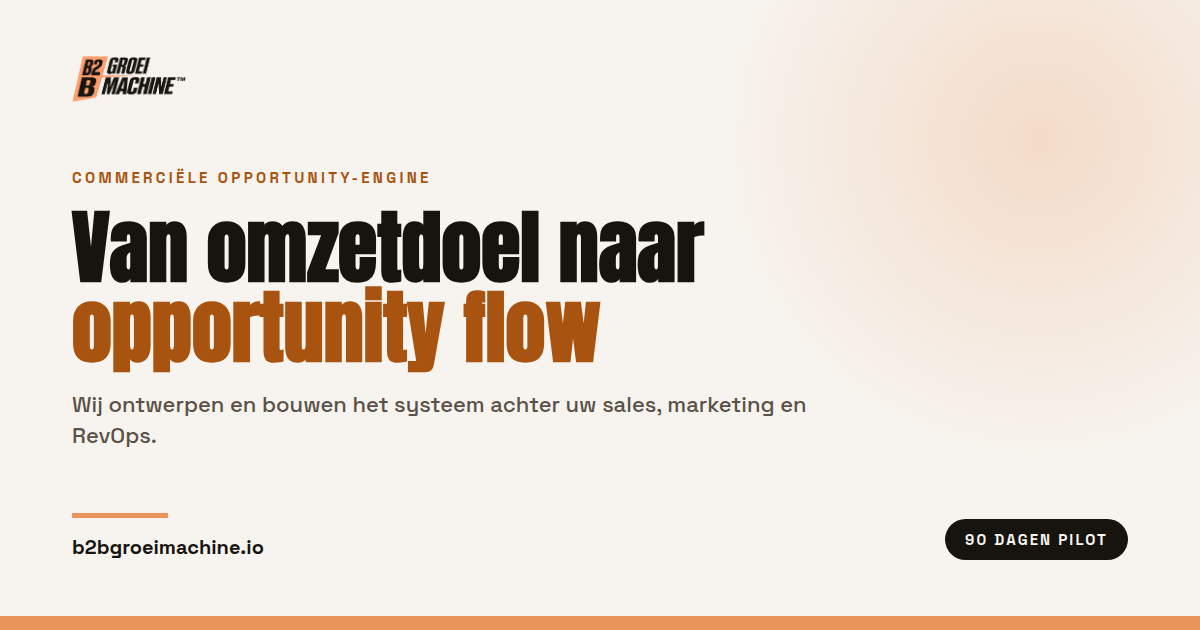
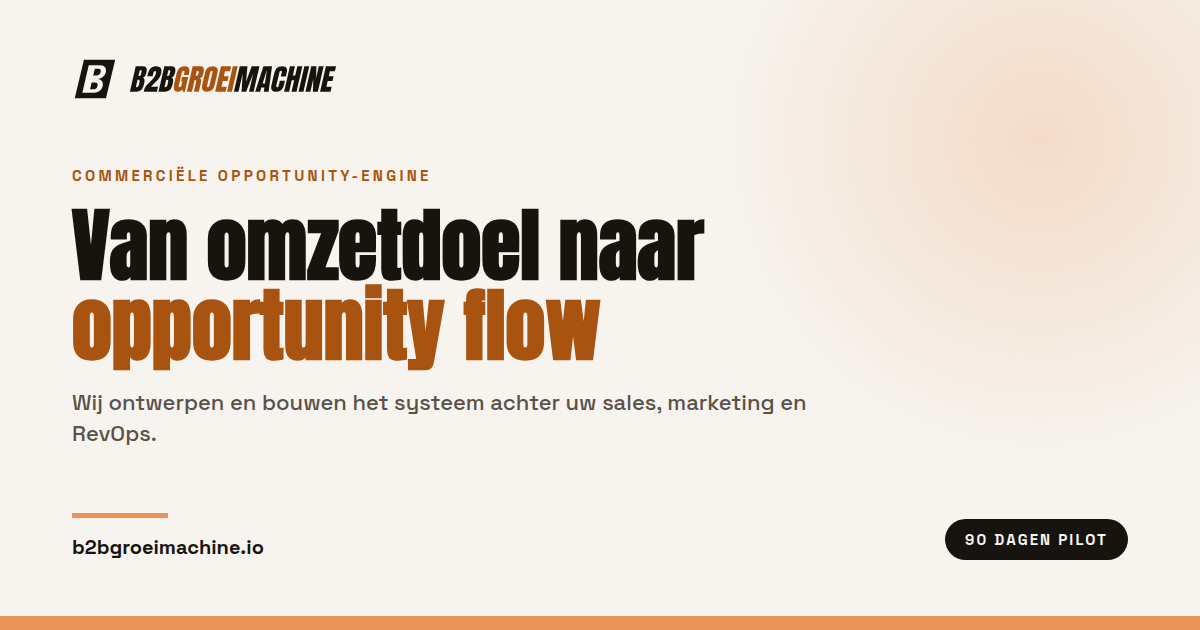
Nieuw merk: Het Blok
Het logo bestond alleen als PNG van 2000 bij 2000. Daardoor was er geen
favicon, kon het nergens scherp schalen, en moest de OG-generator het
beeldmerk in de browser bijsnijden en herkleuren om het bruikbaar te krijgen.

Nu is het vector, en hangt het nergens van een lettertype af:

- het beeldmerk is een schuin vlak met een B die met de hand is getekend,
  twee gelijke bogen op één stam. Optisch gecentreerd, niet wiskundig, omdat
  de bogen rechts zwaarder wegen dan de stam links.
- het woordmerk is Anton, met opentype.js omgezet naar vectorvormen en onder
  dezelfde dertien graden gezet als het vlak.

De favicon is een eigen tekening waarbij het vlak tot buiten het kader loopt.
Met dezelfde marge als het grote merk verdwijnt het blok op zestien pixels in
zijn eigen witruimte.

Wat er verandert:

- src/components/Logo.tsx met Merk en Logo, vormen inline zodat er geen extra
  verzoek nodig is en de kleuren meebewegen met de toon.
- de navigatie toont het logo in plaats van gezette tekst.
- favicon.svg, favicon.ico met 16/32/48 en een apple-touch-icon, met de links
  in index.html; die stonden er helemaal niet.
- public/merk/ met de losse bestanden voor extern gebruik: beeldmerk, op wit,
  één kleur, lockup horizontaal en gestapeld.
- build-og.mjs pakt nu de lockup-SVG. Het canvas-blok dat het oude PNG
  bijsneed en herkleurde kon daarmee weg, en de kaarten zijn opnieuw gemaakt.

Het oude src/assets/b2b_logo_nieuw.png wordt nergens meer gebruikt, maar staat
[…]

diff --git a/src/components/Logo.tsx b/src/components/Logo.tsx
@@ -1,0 +1,94 @@
+/**
+ * Het merk van B2B GroeiMachine.
+ *
+ * Beeldmerk "Het Blok": een schuin vlak met een B die met de hand is getekend,
+ * geen letter uit een lettertype. Het woordmerk is Anton, omgezet naar
+ * vectorvormen en onder dezelfde dertien graden gezet. Beide staan hier als
+ * pad, zodat het logo nergens van een geïnstalleerd lettertype afhangt en op
+ * elk formaat scherp blijft.
+ *
+ * De losse bestanden voor extern gebruik staan in `public/merk/`.
+ */
+
+/** Het schuine vlak. */
+const BLOK = "M26,8 L94,8 L74,92 L6,92 Z";
+/** Hetzelfde vlak, maar aflopend. Met marge valt het merk weg op faviconformaat. */
+const BLOK_VOL = "M22,-2 L104,-2 L78,102 L-4,102 Z";
+/** De B: twee gelijke bogen op één stam, counters als halve stadions. */
+const LETTER =
+  "M32,20 H58 A15,15 0 0 1 58,50 A15,15 0 0 1 58,80 H32 Z " +
+  "M47,27.5 H54 A7.5,7.5 0 0 1 54,42.5 H47 Z " +
+  "M47,57.5 H54 A7.5,7.5 0 0 1 54,72.5 H47 Z";
+/** Optisch gecentreerd, niet wiskundig: de bogen rechts wegen zwaarder dan de stam. */
+const LETTER_PLAATSING = "skewX(-13) translate(9,0)";
+
+/** Woordmerk in drie delen, zodat GROEI zijn eigen kleur houdt. */
+const WOORD = {
+  b2b: "M27.10 0L3.81 0L23.65-85.94L46.94-85.94Q56.31-85.94 59.53-81.37Q62.75-76.81 60.33-66.31L59.46-62.55Q58.06-56.49 55.02-52.73Q51.98-48.97 47.27-47.80Q52.74-46.34 53.47-40.94Q54.20-35.55 52.41-27.78Q50.48-19.43 47.48-13.18Q44.47-6.93 39.57-3.47Q34.67 0 27.10 0M37.38-72.66L32.97-53.56L36.49-53.56Q38.88-53.56 39.99-55.42Q41.10-57.28 41.70-59.86L43.70-68.51Q44.65-72.66 40.99-72.66L37.38-72.66M25.81-15.14Q32.50-15.14 33.96-21.48L36.44-32.23Q37.29-35.89 36.68-38.01Q36.07-40.14 33.05-40.14L29.87-40.14L24.12-15.23Q25.17-15.14 25.81-15.14M95.46 0L50.88 0L51.83-4.10Q53.30-10.50 56.46-15.60Q59.61-20.70 63.75-25.07Q67.88-29.44 72.32-33.64Q76.63-37.74 80.68-42.07Q84.73-46.39 87.83-51.44Q90.92-56.49 92.38-62.79Q93.08-65.82 92.67-67.99Q92.27-70.17 89.44-70.17Q85.14-70.17 83.37-62.50L80.95-52L62.88-52Q63.09-53.12 63.35-54.54Q63.60-55.96 63.91-57.28Q66.05-66.55 69.50-73.02Q72.94-79.49 78.68-82.89Q84.42-86.28 93.41-86.28Q104.10-86.28 108.64-80.27Q113.19-74.27 110.62-63.13Q108.87-55.57 105.61-49.88Q102.34-44.19 98.04-39.53Q93.74-34.86 88.81-30.22Q85.32-26.95 81.97-23.54Q78.62-20.12 75.76-16.21L99.20-16.21L95.46 0M124.37 0L101.07 0L120.91-85.94L144.21-85.94Q153.58-85.94 156.80-81.37Q160.02-76.81 157.59-66.31L156.73-62.55Q155.33-56.49 152.29-52.73Q149.25-48.97 144.53-47.80Q150-46.34 150.74-40.94Q151.47-35.55 149.68-27.78Q147.75-19.43 144.74-13.18Q141.74-6.93 136.84-3.47Q131.93 0 124.37 0M134.65-72.66L130.24-53.56L133.75-53.56Q136.15-53.56 137.26-55.42Q138.37-57.28 138.97-59.86L140.96-68.51Q141.92-72.66 138.26-72.66L134.65-72.66M123.07-15.14Q129.76-15.14 131.23-21.48L133.71-32.23Q134.56-35.89 133.95-38.01Q133.34-40.14 130.31-40.14L127.14-40.14L121.39-15.23Q122.44-15.14 123.07-15.14",
+  groei: "M166.47 0.78Q148.06 0.78 154.15-25.59L162.71-62.65Q168.26-86.72 189.36-86.72Q198.05-86.72 201.88-83.23Q205.71-79.74 205.93-73.05Q206.14-66.36 203.92-56.74L187.12-56.74L188.88-64.36Q189.52-67.14 189.20-69.02Q188.88-70.90 186.49-70.90Q183.51-70.90 182.09-68.90Q180.68-66.89 180.13-64.50L170.51-22.85Q169.71-19.38 170.11-17.21Q170.51-15.04 173.15-15.04Q175.88-15.04 177.29-17.21Q178.69-19.38 179.52-22.95L182.35-35.21L177.76-35.21L181.18-50.05L202.18-50.05L190.63 0L183.74 0L182.48-7.23Q176.14 0.78 166.47 0.78M214.79 0L197.41 0L217.25-85.94L243.62-85.94Q250.21-85.94 252.89-82.93Q255.56-79.93 255.46-74.54Q255.37-69.14 253.69-61.87Q252.06-54.83 249.31-50.63Q246.56-46.44 241.26-44.82Q245.12-43.99 246.02-40.80Q246.91-37.60 245.74-32.52L238.23 0L221.29 0L229.06-33.64Q229.92-37.40 228.59-38.31Q227.26-39.21 223.85-39.21L214.79 0M231.06-70.02L227.38-54.10L231.53-54.10Q235.10-54.10 236.89-61.87Q238.05-66.89 237.63-68.46Q237.21-70.02 235.06-70.02L231.06-70.02M265.40 0.78Q255.09 0.78 251.09-5.44Q247.08-11.67 249.80-23.44L259.22-64.26Q261.77-75.29 268.48-81.01Q275.20-86.72 285.60-86.72Q296-86.72 300.07-81.01Q304.15-75.29 301.60-64.26L292.18-23.44Q289.46-11.67 282.58-5.44Q275.70 0.78 265.40 0.78M269.19-15.04Q273.10-15.04 274.85-22.61L284.53-64.55Q286-70.90 282.19-70.90Q277.89-70.90 276.39-64.40L266.72-22.51Q265.80-18.51 266.37-16.77Q266.95-15.04 269.19-15.04M329.20 0L293.70 0L313.54-85.94L347.92-85.94L344.08-69.34L327.19-69.34L323.32-52.59L339.53-52.59L335.80-36.43L319.59-36.43L315.05-16.75L333.07-16.75L329.20 0M350.68 0L334.08 0L353.92-85.94L370.52-85.94",
+  machine: "M373.05 0L357.52 0L377.36-85.94L403.53-85.94L398.66-33.54L417.94-85.94L444.35-85.94L424.51 0L408.79 0L423.08-61.91L398.93 0L383.50 0L387.34-61.91L373.05 0M446.48 0L429.79 0L457.93-85.94L487.08-85.94L475.39 0L459.13 0L461.11-13.87L450.76-13.87L446.48 0M468.51-71.29L455.15-27.59L462.96-27.59L469.29-71.29L468.51-71.29M500.50 0.78Q491.18 0.78 486.83-5.03Q482.48-10.84 484.90-21.29L494.05-60.94Q496.93-73.44 503.42-80.08Q509.91-86.72 521.09-86.72Q527.20-86.72 531.44-84.47Q535.68-82.23 537.39-77.76Q539.09-73.29 537.52-66.50L534.09-51.66L517-51.66L519.94-64.36Q520.83-68.21 520.16-69.56Q519.49-70.90 517.44-70.90Q515.05-70.90 513.82-69.17Q512.59-67.43 511.92-64.55L501.99-21.53Q501.17-17.97 501.88-16.50Q502.59-15.04 504.55-15.04Q506.74-15.04 508.06-16.85Q509.38-18.65 510.05-21.53L513.62-37.01L530.91-37.01L527.15-20.75Q524.54-9.42 517.65-4.32Q510.76 0.78 500.50 0.78M545.17 0L528.08 0L547.92-85.94L565.01-85.94L557.92-55.22L566.02-55.22L573.11-85.94L590.20-85.94L570.36 0L553.27 0L562.27-38.96L554.16-38.96L545.17 0M593.80 0L577.20 0L597.04-85.94L613.64-85.94L593.80 0M617.43 0L600.63 0L620.48-85.94L638.15-85.94L636.56-44.78L646.06-85.94L662.66-85.94L642.82 0L626.03 0L627.35-42.97L617.43 0M685.94 0L650.44 0L670.28-85.94L704.65-85.94L700.82-69.34L683.93-69.34L680.06-52.59L696.27-52.59L692.54-36.43L676.33-36.43L671.79-16.75L689.80-16.75",
+};
+/** Kader van het woordmerk, gemeten op de vormen hierboven. */
+const WOORD_VAK = { x0: 3.8, x1: 704.6, y0: -86.7, y1: 0.8 };
+
+const KLEUR = {
+  donker: { vlak: "#E8945A", letter: "#17140F", woord: "#F7F4EF", accent: "#E8945A" },
+  licht: { vlak: "#17140F", letter: "#F7F4EF", woord: "#17140F", accent: "#A85410" },
+} as const;
+
+type Toon = keyof typeof KLEUR;
+
+/**
+ * Alleen het beeldmerk.
+ *
+ * `aflopend` laat het vlak tot de rand lopen; gebruik dat zodra het merk onder
+ * de veertig pixels komt, anders verdwijnt het in zijn eigen witruimte.
+ */
+export function Merk({
+  toon = "donker",
+  aflopend = false,
+  className,
+}: {
+  toon?: Toon;
+  aflopend?: boolean;
+  className?: string;
+}) {
+  const k = KLEUR[toon];
+  return (
+    <svg viewBox="0 0 100 100" className={className} role="img" aria-label="B2B GroeiMachine">
+      <path d={aflopend ? BLOK_VOL : BLOK} fill={k.vlak} />
+      <g transform={LETTER_PLAATSING}>
+        <path d={LETTER} fill={k.letter} fillRule="evenodd" />
+      </g>
+    </svg>
+  );
+}
+
+/** Het beeldmerk met de naam ernaast. De hoogte volgt uit de `className`. */
+export function Logo({ toon = "donker", className }: { toon?: Toon; className?: string }) {
+  const k = KLEUR[toon];
+  const kapH = WOORD_VAK.y1 - WOORD_VAK.y0;
+  const s = 56 / kapH;
+  const gat = 26;
+  const wx = 100 + gat - WOORD_VAK.x0 * s;
+  const wy = 50 + 28 - WOORD_VAK.y1 * s;
+  const breedte = 100 + gat + (WOORD_VAK.x1 - WOORD_VAK.x0) * s;
+  return (
+    <svg
+      viewBox={`0 0 ${breedte.toFixed(1)} 100`}
+      className={className}
+      role="img"
+      aria-label="B2B GroeiMachine"
+    >
+      <path d={BLOK} fill={k.vlak} />
+      <g transform={LETTER_PLAATSING}>
+        <path d={LETTER} fill={k.letter} fillRule="evenodd" />
+      </g>
+      <g transform={`translate(${wx.toFixed(2)},${wy.toFixed(2)}) scale(${s.toFixed(4)})`}>
+        <path d={WOORD.b2b} fill={k.woord} />
+        <path d={WOORD.groei} fill={k.accent} />
+        <path d={WOORD.machine} fill={k.woord} />
+      </g>
+    </svg>
+  );
+}

diff --git a/src/components/v2/Nav.tsx b/src/components/v2/Nav.tsx
@@ -7,6 +7,7 @@ import { sectors } from "@/data/sectors";
 import peterAsset from "@/assets/peter.gif.asset.json";
 import { WeglotLanguageToggle } from "@/components/WeglotLanguageToggle";
 import { CurrencySwitcher } from "@/components/CurrencySwitcher";
+import { Logo } from "@/components/Logo";
 
 type Item = { label: string; href: string; note?: string };
 type Group = { label: string; href?: string; items?: Item[] };
@@ -138,10 +139,7 @@ export function Nav() {
     >
       <Container className="flex items-center justify-between gap-7 py-3.5">
         <Link to="/" aria-label="B2B Groeimachine, home" className="shrink-0">
-          <span className="font-display text-[17px] font-black tracking-[-0.02em]">
-            <span className="text-brand-ink">B2B</span>
-            <span className="text-brand-accent-ink">GroeiMachine</span>
-          </span>
+          <Logo toon="licht" className="h-[26px] w-auto" />
         </Link>
 
         <div className="hidden items-center gap-7 lg:flex">

diff --git a/index.html b/index.html
@@ -8,6 +8,9 @@
     <meta name="author" content="B2BGroeiMachine — powered by Rebel Force" />
     <meta name="google-site-verification" content="-bh5HD2SpM_7qNDIh03YUNX1sGxx_GzVkPC2wTgtivc" />
     <meta name="google-site-verification" content="pyYlXmaK5JT3S6qqYYJJYLAHRUMC_DgesZdzsGv4q4c" />
+    <link rel="icon" href="/favicon.ico" sizes="16x16 32x32 48x48" />
+    <link rel="icon" href="/favicon.svg" type="image/svg+xml" />
+    <link rel="apple-touch-icon" href="/apple-touch-icon.png" />
     <link rel="canonical" href="https://www.b2bgroeimachine.io/" />
     <link rel="alternate" type="application/rss+xml" title="B2BGroeiMachine Blog" href="https://www.b2bgroeimachine.io/rss.xml" />
     <link rel="alternate" type="text/plain" title="B2BGroeiMachine — LLM context" href="https://www.b2bgroeimachine.io/llms.txt" />
